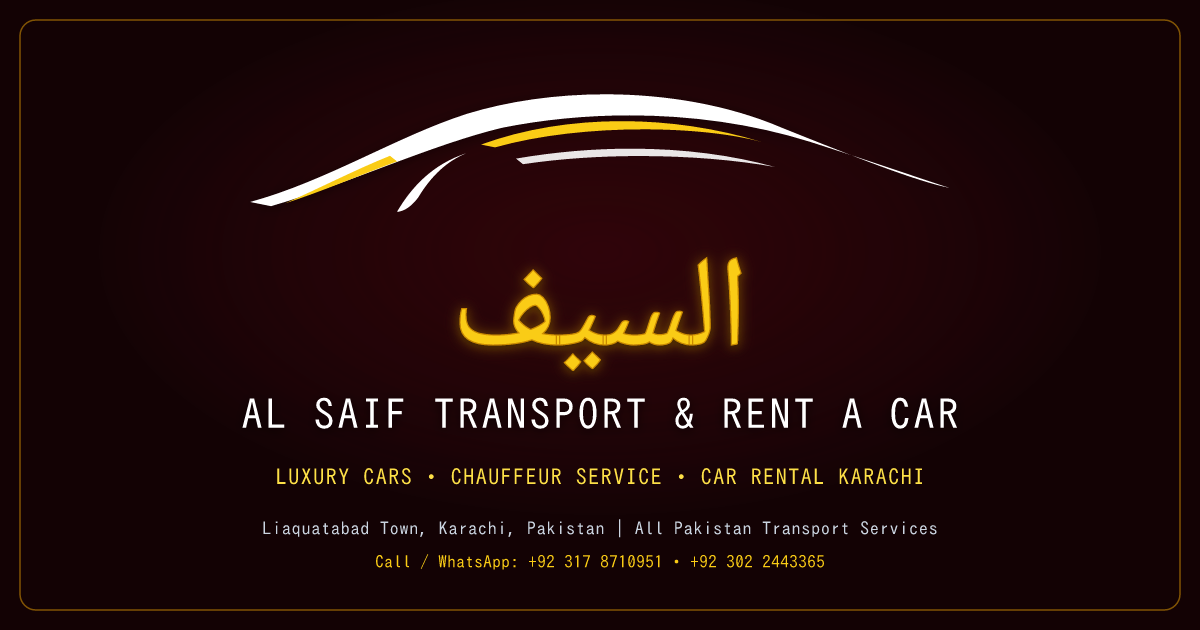
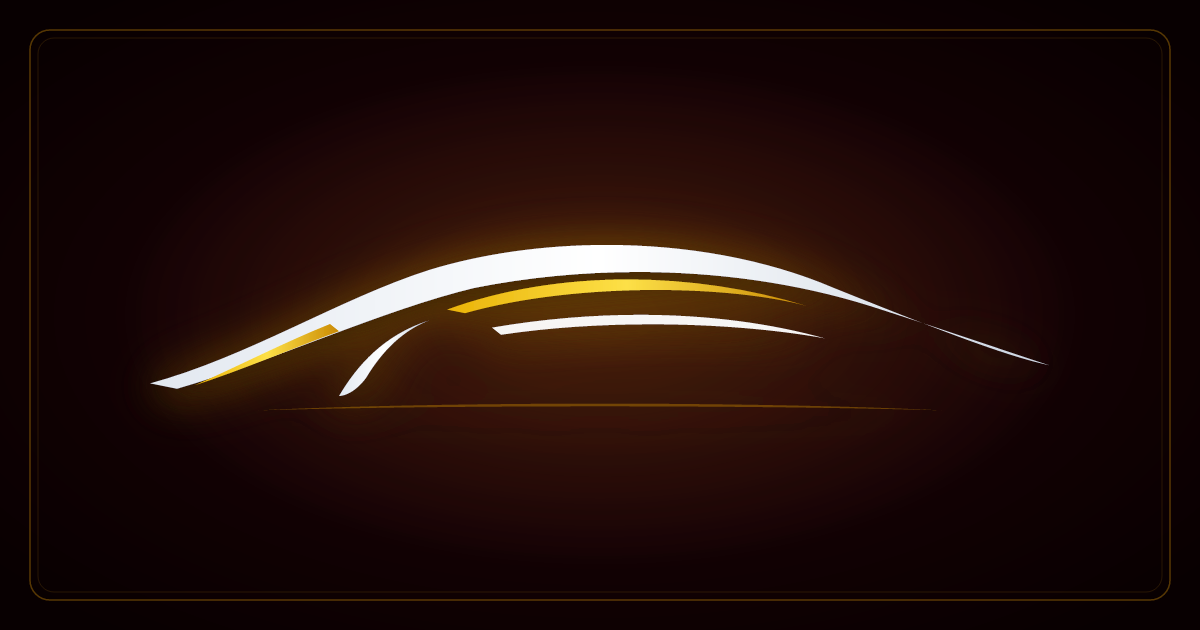
style: update social media preview image and tags
Replace the Open Graph and Twitter sharing images with a new car outline preview and update the associated metadata tags to improve social sharing.

diff --git a/index.html b/index.html
@@ -18,17 +18,17 @@
     <meta property="og:url" content="https://alsaiftransportandrentacar.autos/" />
     <meta property="og:type" content="website" />
     <meta property="og:site_name" content="Al Saif Transport &amp; Rent A Car" />
-    <meta property="og:image" content="https://alsaiftransportandrentacar.autos/images/og-share-alsaif.png" />
-    <meta property="og:image:secure_url" content="https://alsaiftransportandrentacar.autos/images/og-share-alsaif.png" />
+    <meta property="og:image" content="https://alsaiftransportandrentacar.autos/images/car-outline-preview.png" />
+    <meta property="og:image:secure_url" content="https://alsaiftransportandrentacar.autos/images/car-outline-preview.png" />
     <meta property="og:image:type" content="image/png" />
     <meta property="og:image:width" content="1200" />
     <meta property="og:image:height" content="630" />
-    <meta property="og:image:alt" content="Al Saif Transport &amp; Rent A Car - السيف" />
+    <meta property="og:image:alt" content="Car Rental &amp; Transport Services" />
     <meta name="twitter:card" content="summary_large_image" />
     <meta name="twitter:title" content="Al Saif Transport &amp; Rent A Car | Luxury Cars, Chauffeur &amp; Car Rental Karachi" />
     <meta name="twitter:description" content="Premium chauffeur-driven vehicles across Pakistan and reliable self-drive car rental service in Karachi." />
-    <meta name="twitter:image" content="https://alsaiftransportandrentacar.autos/images/og-share-alsaif.png" />
-    <meta name="twitter:image:alt" content="Al Saif Transport &amp; Rent A Car - السيف" />
+    <meta name="twitter:image" content="https://alsaiftransportandrentacar.autos/images/car-outline-preview.png" />
+    <meta name="twitter:image:alt" content="Car Rental &amp; Transport Services" />
     <link rel="preconnect" href="https://fonts.googleapis.com">
     <link rel="preconnect" href="https://fonts.gstatic.com" crossorigin>
     <link href="https://fonts.googleapis.com/css2?family=Amiri:ital,wght@0,700;1,700&family=Noto+Kufi+Arabic:wght@400;600;700;800&family=Noto+Naskh+Arabic:wght@400;600;700;800&family=Noto+Nastaliq+Urdu:wght@400;500;600;700&family=Noto+Sans+Arabic:wght@400;600;700;800&family=Plus+Jakarta+Sans:wght@300;400;500;600;700;800&family=Inter:wght@400;500;600;700&display=swap" rel="stylesheet">
